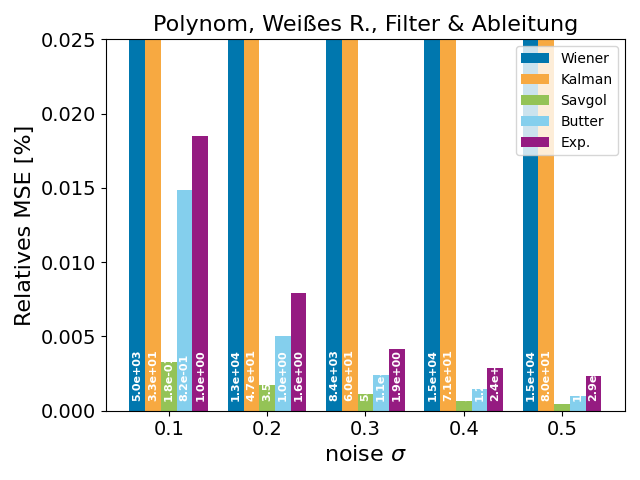
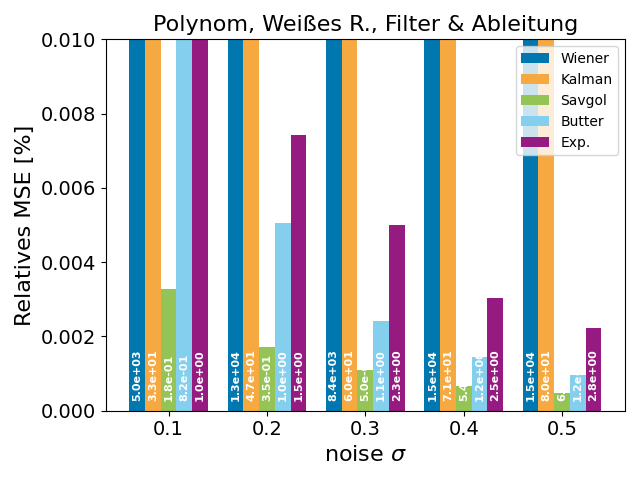
Redo of some plots

diff --git a/MSE_compare.py b/MSE_compare.py
@@ -162,7 +162,7 @@ plot_sig_mse([MSE_sine_quant_wiener, MSE_sine_quant_kalman,MSE_sine_quant_savgol
 
 ############### NICHT abgeleitetes Polynom
 # white poly
-plot_sig_mse([MSE_poly_white_wiener, MSE_poly_white_kalman,MSE_poly_white_savgol,MSE_poly_white_butter,MSE_poly_white_exp], ['Wiener', 'Kalman','Savgol','Butter','Exp'], 'Polynom, Weißes R., Filter', MSE_poly_white_ref, 30)
+plot_sig_mse([MSE_poly_white_wiener, MSE_poly_white_kalman,MSE_poly_white_savgol,MSE_poly_white_butter,MSE_poly_white_exp], ['Wiener', 'Kalman','Savgol','Butter','Exp'], 'Polynom, Weißes R., Filter', MSE_poly_white_ref, 20)
 # brown poly
 plot_sig_mse([MSE_poly_brown_wiener, MSE_poly_brown_kalman,MSE_poly_brown_savgol,MSE_poly_brown_butter,MSE_poly_brown_exp], ['Wiener', 'Kalman','Savgol','Butter','Exp'], 'Polynom, Braunes R., Filter', MSE_poly_brown_ref, 30)
 # quant poly
@@ -170,19 +170,19 @@ plot_sig_mse([MSE_poly_quant_wiener, MSE_poly_quant_kalman,MSE_poly_quant_savgol
 
 ############### abgeleiteter Sinus
 # white sine
-plot_sig_mse([MSE_sine_white_wiener_dot, MSE_sine_white_kalman_dot,MSE_sine_white_savgol_dot,MSE_sine_white_butter_dot,MSE_sine_white_exp_dot], ['Wiener', 'Kalman','Savgol','Butter','Exp'], 'Sinus, Weißes R., Filter & Ableitung', MSE_sine_white_ref_dot, 0.6)
+plot_sig_mse([MSE_sine_white_wiener_dot, MSE_sine_white_kalman_dot,MSE_sine_white_savgol_dot,MSE_sine_white_butter_dot,MSE_sine_white_exp_dot], ['Wiener', 'Kalman','Savgol','Butter','Exp'], 'Sinus, Weißes R., Filter & Ableitung', MSE_sine_white_ref_dot, 0.2)
 # brown sine
-plot_sig_mse([MSE_sine_brown_wiener_dot, MSE_sine_brown_kalman_dot, MSE_sine_brown_savgol_dot, MSE_sine_brown_butter_dot, MSE_sine_brown_exp_dot,], ['Wiener', 'Kalman','Savgol','Butter','Exp'], 'Sinus, Braunes R., Filter & Ableitung', MSE_sine_brown_ref_dot, 20)
+plot_sig_mse([MSE_sine_brown_wiener_dot, MSE_sine_brown_kalman_dot, MSE_sine_brown_savgol_dot, MSE_sine_brown_butter_dot, MSE_sine_brown_exp_dot,], ['Wiener', 'Kalman','Savgol','Butter','Exp'], 'Sinus, Braunes R., Filter & Ableitung', MSE_sine_brown_ref_dot, 10)
 # quant sine
-plot_sig_mse([MSE_sine_quant_wiener_dot, MSE_sine_quant_kalman_dot, MSE_sine_quant_savgol_dot, MSE_sine_quant_butter_dot, MSE_sine_quant_exp_dot,], ['Wiener', 'Kalman','Savgol','Butter','Exp'], 'Sinus, Quantisierungsr., Filter & Ableitung', MSE_sine_quant_ref_dot, 10)
+plot_sig_mse([MSE_sine_quant_wiener_dot, MSE_sine_quant_kalman_dot, MSE_sine_quant_savgol_dot, MSE_sine_quant_butter_dot, MSE_sine_quant_exp_dot,], ['Wiener', 'Kalman','Savgol','Butter','Exp'], 'Sinus, Quantisierungsr., Filter & Ableitung', MSE_sine_quant_ref_dot, 5)
 
 ############### abgeleitetes Polynom
 # white poly
-plot_sig_mse([MSE_poly_white_wiener_dot, MSE_poly_white_kalman_dot, MSE_poly_white_savgol_dot, MSE_poly_white_butter_dot, MSE_poly_white_exp_dot], ['Wiener', 'Kalman','Savgol','Butter','Exp'], 'Polynom, Weißes R., Filter & Ableitung', MSE_poly_white_ref_dot, 0.025)
+plot_sig_mse([MSE_poly_white_wiener_dot, MSE_poly_white_kalman_dot, MSE_poly_white_savgol_dot, MSE_poly_white_butter_dot, MSE_poly_white_exp_dot], ['Wiener', 'Kalman','Savgol','Butter','Exp'], 'Polynom, Weißes R., Filter & Ableitung', MSE_poly_white_ref_dot, 0.01)
 # brown poly
-plot_sig_mse([MSE_poly_brown_wiener_dot, MSE_poly_brown_kalman_dot, MSE_poly_brown_savgol_dot, MSE_poly_brown_butter_dot, MSE_poly_brown_exp_dot], ['Wiener', 'Kalman','Savgol','Butter','Exp'], 'Polynom, Braunes R., Filter & Ableitung', MSE_poly_brown_ref_dot, 0.2)
+plot_sig_mse([MSE_poly_brown_wiener_dot, MSE_poly_brown_kalman_dot, MSE_poly_brown_savgol_dot, MSE_poly_brown_butter_dot, MSE_poly_brown_exp_dot], ['Wiener', 'Kalman','Savgol','Butter','Exp'], 'Polynom, Braunes R., Filter & Ableitung', MSE_poly_brown_ref_dot, 0.15)
 # quant poly
-plot_sig_mse([MSE_poly_quant_wiener_dot, MSE_poly_quant_kalman_dot, MSE_poly_quant_savgol_dot, MSE_poly_quant_butter_dot, MSE_poly_quant_exp_dot], ['Wiener', 'Kalman','Savgol','Butter','Exp'], 'Polynom, Quantisierungsr., Filter & Ableitung', MSE_poly_quant_ref_dot, 0.4)
+plot_sig_mse([MSE_poly_quant_wiener_dot, MSE_poly_quant_kalman_dot, MSE_poly_quant_savgol_dot, MSE_poly_quant_butter_dot, MSE_poly_quant_exp_dot], ['Wiener', 'Kalman','Savgol','Butter','Exp'], 'Polynom, Quantisierungsr., Filter & Ableitung', MSE_poly_quant_ref_dot, 0.3)
 
 from os import path
 outpath = r"Bilder_Vergleich/Prozentual/"
@@ -209,11 +209,11 @@ plot_sig_mse_absolut([MSE_poly_quant_wiener, MSE_poly_quant_kalman,MSE_poly_quan
 
 ############### abgeleiteter Sinus
 # white sine
-plot_sig_mse_absolut([MSE_sine_white_wiener_dot, MSE_sine_white_kalman_dot,MSE_sine_white_savgol_dot,MSE_sine_white_butter_dot,MSE_sine_white_exp_dot], ['Wiener', 'Kalman','Savgol','Butter','Exp'], 'Sinus, Weißes R. , Filter & Ableitung', MSE_sine_white_ref_dot, 120)
+plot_sig_mse_absolut([MSE_sine_white_wiener_dot, MSE_sine_white_kalman_dot,MSE_sine_white_savgol_dot,MSE_sine_white_butter_dot,MSE_sine_white_exp_dot], ['Wiener', 'Kalman','Savgol','Butter','Exp'], 'Sinus, Weißes R. , Filter & Ableitung', MSE_sine_white_ref_dot, 60)
 # brown sine
-plot_sig_mse_absolut([MSE_sine_brown_wiener_dot, MSE_sine_brown_kalman_dot, MSE_sine_brown_savgol_dot, MSE_sine_brown_butter_dot, MSE_sine_brown_exp_dot,], ['Wiener', 'Kalman','Savgol','Butter','Exp'], 'Sinus, Braunes R., Filter & Ableitung', MSE_sine_brown_ref_dot, 120)
+plot_sig_mse_absolut([MSE_sine_brown_wiener_dot, MSE_sine_brown_kalman_dot, MSE_sine_brown_savgol_dot, MSE_sine_brown_butter_dot, MSE_sine_brown_exp_dot,], ['Wiener', 'Kalman','Savgol','Butter','Exp'], 'Sinus, Braunes R., Filter & Ableitung', MSE_sine_brown_ref_dot, 100)
 # quant sine
-plot_sig_mse_absolut([MSE_sine_quant_wiener_dot, MSE_sine_quant_kalman_dot, MSE_sine_quant_savgol_dot, MSE_sine_quant_butter_dot, MSE_sine_quant_exp_dot,], ['Wiener', 'Kalman','Savgol','Butter','Exp'], 'Sinus, Quantisierungsr., Filter & Ableitung', MSE_sine_quant_ref_dot, 120)
+plot_sig_mse_absolut([MSE_sine_quant_wiener_dot, MSE_sine_quant_kalman_dot, MSE_sine_quant_savgol_dot, MSE_sine_quant_butter_dot, MSE_sine_quant_exp_dot,], ['Wiener', 'Kalman','Savgol','Butter','Exp'], 'Sinus, Quantisierungsr., Filter & Ableitung', MSE_sine_quant_ref_dot, 40)
 
 ############### abgeleitetes Polynom
 # white poly
@@ -221,7 +221,7 @@ plot_sig_mse_absolut([MSE_poly_white_wiener_dot, MSE_poly_white_kalman_dot, MSE_
 # brown poly
 plot_sig_mse_absolut([MSE_poly_brown_wiener_dot, MSE_poly_brown_kalman_dot, MSE_poly_brown_savgol_dot, MSE_poly_brown_butter_dot, MSE_poly_brown_exp_dot], ['Wiener', 'Kalman','Savgol','Butter','Exp'], 'Polynom, Braunes R., Filter & Ableitung', MSE_poly_brown_ref_dot, 4)
 # quant poly
-plot_sig_mse_absolut([MSE_poly_quant_wiener_dot, MSE_poly_quant_kalman_dot, MSE_poly_quant_savgol_dot, MSE_poly_quant_butter_dot, MSE_poly_quant_exp_dot], ['Wiener', 'Kalman','Savgol','Butter','Exp'], 'Polynom, Quantisierungsr., Filter & Ableitung', MSE_poly_quant_ref_dot, 5)
+plot_sig_mse_absolut([MSE_poly_quant_wiener_dot, MSE_poly_quant_kalman_dot, MSE_poly_quant_savgol_dot, MSE_poly_quant_butter_dot, MSE_poly_quant_exp_dot], ['Wiener', 'Kalman','Savgol','Butter','Exp'], 'Polynom, Quantisierungsr., Filter & Ableitung', MSE_poly_quant_ref_dot, 4)
 
 from os import path
 outpath = r"Bilder_Vergleich/Absolut/"
